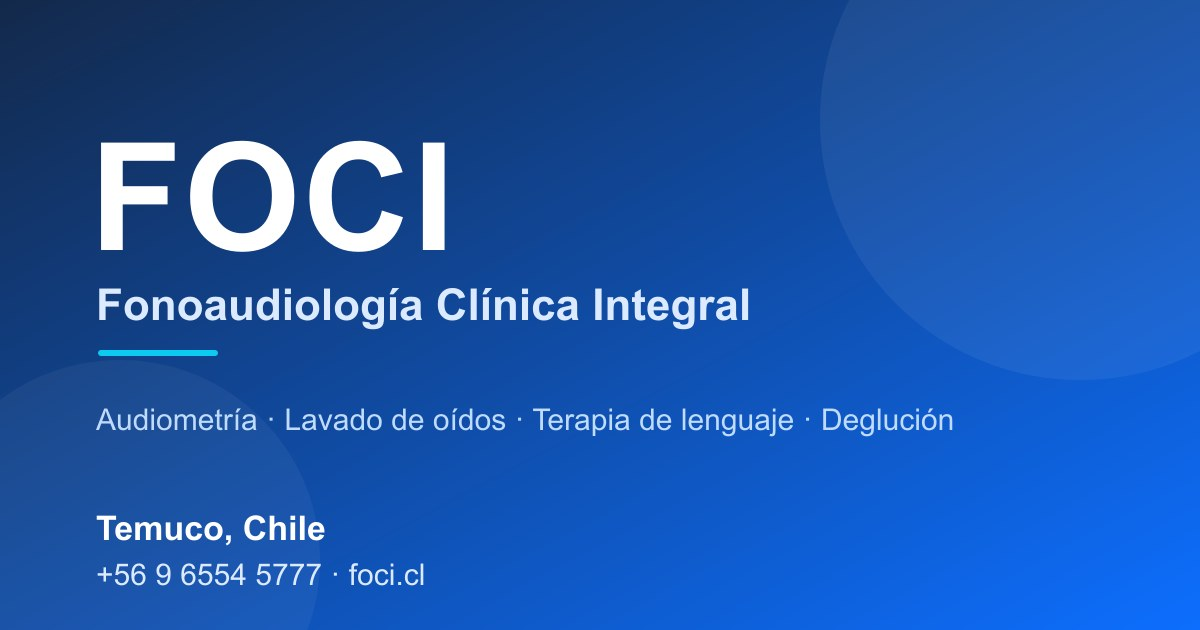
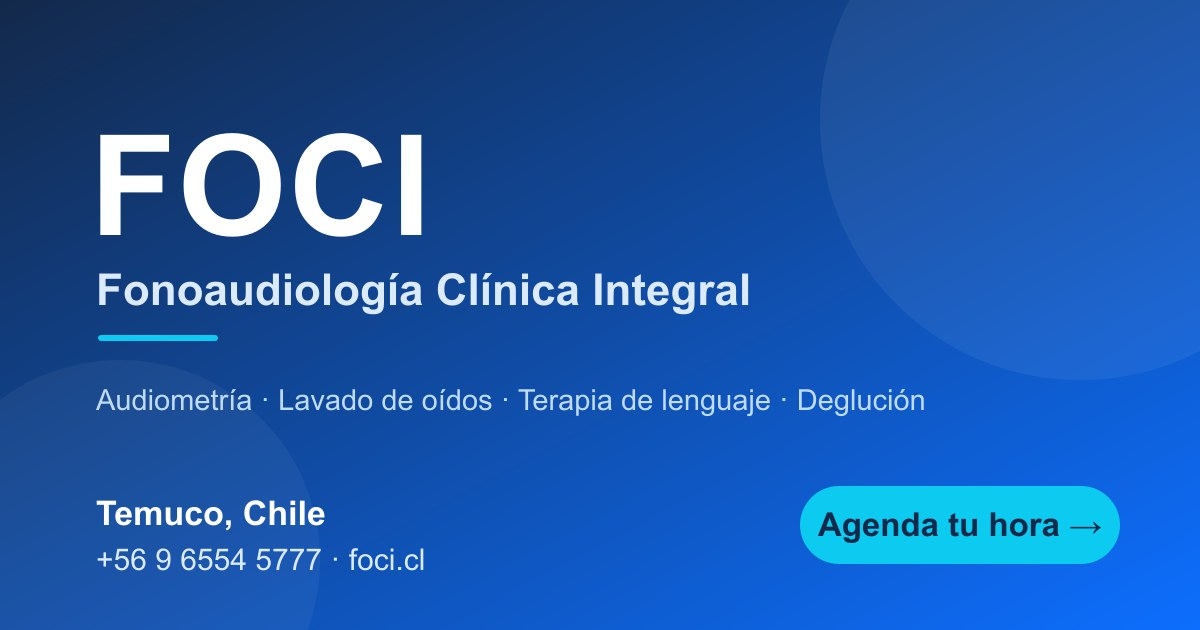
@ seo: acortar title/description, twitter cards y CTA en OG image
Corrige hallazgos del preview social:
- title del home 74->55 chars; meta description 210->~148; og:description
  145->~112 (evita truncado en Google y previews)
- twitter:card summary_large_image + title/description/image en home,
  servicios, blog y articulos
- og:image:width/height/alt
- OG image: agrega CTA "Agenda tu hora ->" (boton cyan)

@

diff --git a/src/pages/HomePage.jsx b/src/pages/HomePage.jsx
@@ -14,17 +14,24 @@ export default function HomePage() {
   return (
     <div className="min-h-screen bg-white">
       <Head>
-        <title>FOCI | Fonoaudióloga Temuco | Evaluación Auditiva y Fonoaudiología Clínica</title>
-        <meta name="description" content="FOCI — Fonoaudiología Clínica Integral en Temuco, Chile. Especialistas en audiometría, lavado de oídos, otoscopía, terapia del lenguaje, evaluación ADOS-2 y rehabilitación vestibular. Atención desde los 3 años." />
+        <title>FOCI | Fonoaudiología y Evaluación Auditiva en Temuco</title>
+        <meta name="description" content="Fonoaudiología clínica en Temuco: audiometría, lavado de oídos, terapia del lenguaje, ADOS-2 y rehabilitación vestibular. Atención desde los 3 años." />
         <meta name="keywords" content="fonoaudiología Temuco, evaluación auditiva Temuco, lavado de oídos Temuco, audiometría Temuco, terapia del lenguaje Temuco, ADOS-2 Temuco, fonoaudiólogo Temuco" />
         <link rel="canonical" href="https://foci.cl/" />
-        <meta property="og:title" content="FOCI | Fonoaudióloga Temuco | Evaluación Auditiva Integral" />
-        <meta property="og:description" content="Especialistas en audiometría, lavado de oídos, terapia del lenguaje y fonoaudiología clínica en Temuco, Chile. Atención Lun–Sáb. +56 9 6554 5777." />
+        <meta property="og:title" content="FOCI | Fonoaudiología y Evaluación Auditiva en Temuco" />
+        <meta property="og:description" content="Audiometría, lavado de oídos, terapia del lenguaje y más en Temuco. Atención Lun–Sáb. Agenda: +56 9 6554 5777." />
         <meta property="og:type" content="website" />
         <meta property="og:url" content="https://foci.cl/" />
         <meta property="og:image" content="https://foci.cl/og-image.jpg" />
+        <meta property="og:image:width" content="1200" />
+        <meta property="og:image:height" content="630" />
+        <meta property="og:image:alt" content="FOCI — Fonoaudiología Clínica Integral en Temuco" />
         <meta property="og:locale" content="es_CL" />
         <meta property="og:site_name" content="FOCI — Fonoaudiología Clínica Integral" />
+        <meta name="twitter:card" content="summary_large_image" />
+        <meta name="twitter:title" content="FOCI | Fonoaudiología y Evaluación Auditiva en Temuco" />
+        <meta name="twitter:description" content="Audiometría, lavado de oídos, terapia del lenguaje y más en Temuco. Atención Lun–Sáb. Agenda: +56 9 6554 5777." />
+        <meta name="twitter:image" content="https://foci.cl/og-image.jpg" />
         <script type="application/ld+json">{JSON.stringify({
           "@context": "https://schema.org",
           "@type": "FAQPage",

diff --git a/src/pages/BlogPage.jsx b/src/pages/BlogPage.jsx
@@ -18,6 +18,10 @@ export default function BlogPage() {
         <meta property="og:url" content="https://foci.cl/blog" />
         <meta property="og:image" content="https://foci.cl/og-image.jpg" />
         <meta property="og:type" content="website" />
+        <meta name="twitter:card" content="summary_large_image" />
+        <meta name="twitter:title" content="Blog de Salud Auditiva y Lenguaje | FOCI Fonoaudiología" />
+        <meta name="twitter:description" content="Guías y consejos sobre audición, lenguaje y fonoaudiología clínica por el equipo de FOCI en Temuco." />
+        <meta name="twitter:image" content="https://foci.cl/og-image.jpg" />
         <script type="application/ld+json">{JSON.stringify({
           "@context": "https://schema.org",
           "@type": "Blog",

diff --git a/src/pages/ServicePage.jsx b/src/pages/ServicePage.jsx
@@ -33,6 +33,10 @@ export default function ServicePage() {
         <meta property="og:url" content={`https://foci.cl/${service.slug}`} />
         <meta property="og:image" content="https://foci.cl/og-image.jpg" />
         <meta property="og:type" content="website" />
+        <meta name="twitter:card" content="summary_large_image" />
+        <meta name="twitter:title" content={service.metaTitle} />
+        <meta name="twitter:description" content={service.metaDesc} />
+        <meta name="twitter:image" content="https://foci.cl/og-image.jpg" />
         <script type="application/ld+json">{JSON.stringify({
           "@context": "https://schema.org",
           "@type": "FAQPage",

diff --git a/src/pages/ArticlePage.jsx b/src/pages/ArticlePage.jsx
@@ -54,6 +54,10 @@ export default function ArticlePage() {
         <meta property="og:url" content={url} />
         <meta property="og:image" content="https://foci.cl/og-image.jpg" />
         <meta property="og:type" content="article" />
+        <meta name="twitter:card" content="summary_large_image" />
+        <meta name="twitter:title" content={article.metaTitle} />
+        <meta name="twitter:description" content={article.metaDesc} />
+        <meta name="twitter:image" content="https://foci.cl/og-image.jpg" />
         <script type="application/ld+json">{JSON.stringify({
           "@context": "https://schema.org",
           "@type": "Article",
